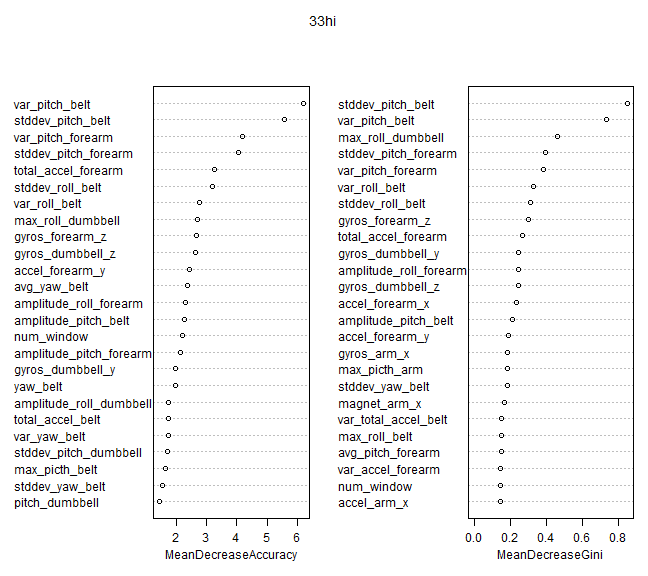
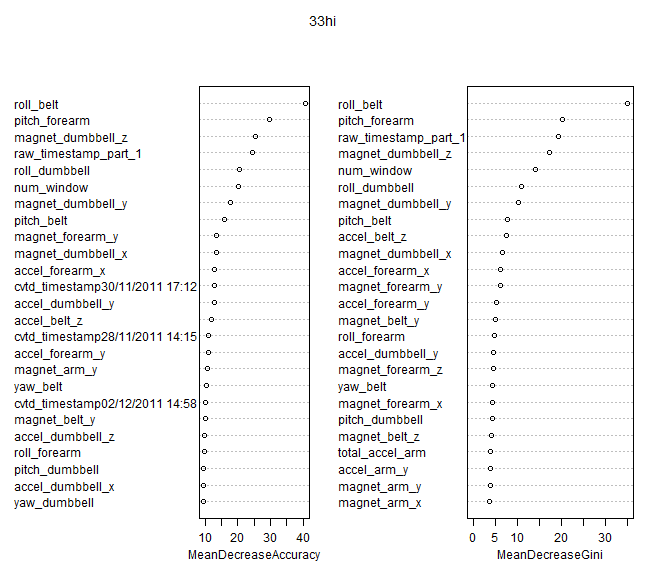
round 2

diff --git a/predmachlearn.html b/predmachlearn.html
@@ -181,7 +181,7 @@ hljs.initHighlightingOnLoad();
 <body>
 <h1>Predictive Machine Learning - Exercise Activity</h1>
 
-<p>The goal of this assignment is to predict the type of exercize performed based on sensor data.  This analysis will use the default values for a random forest model due to its high accuracy and acceptable computation time.  </p>
+<p>The goal of this assignment is to predict the type of exercize performed based on sensor data.  This analysis will use the default values for a random forest model due to its high accuracy and acceptable computation time for non-linear data.  </p>
 
 <h2>Data Exploration</h2>
 
@@ -201,51 +201,31 @@ training &lt;- read.csv(&quot;pml-training.csv&quot;)
 testing &lt;- read.csv(&quot;pml-testing.csv&quot;)
 
 # Separate test data into two groups
-training &lt;- training[, -c(1)]  #First column is redundant
-inTrain &lt;- createDataPartition(y = training$classe, p = 0.1, list = FALSE)
+training &lt;- training[, -c(1, 3:5)]  #First column is redundant, remove noisy time data
+inTrain &lt;- createDataPartition(y = training$classe, p = 0.2, list = FALSE)
 train1 &lt;- training[inTrain, ]
-test &lt;- training[-inTrain, ]
+test1 &lt;- training[-inTrain, ]
 </code></pre>
 
 <h2>Cleaning Data</h2>
 
-<p>The next step is to identify features that contain mostly NaNs or will not contribute to the model.  </p>
+<p>The next step is to identify features that contain mostly NaNs or will not contribute to the model due to low or near-zero variance. </p>
 
 <pre><code class="r">nna &lt;- apply(train1, 2, function(x) {
-    1 - sum(is.na(x))/nrow(train1)
-}) &gt; 0.03
+    mean(is.na(x))
+}) &lt; 0.9
 train1 &lt;- train1[, nna]
 
-# nna &lt;- apply(train1, 2, function(x) {mean(is.na(x))}) &lt; 0.03 train1 &lt;-
-# train[, nna]
-
 nzv &lt;- nearZeroVar(train1, saveMetrics = TRUE)
-exclude_nzv &lt;- rownames(subset(nzv, nzv == TRUE))
-train1 &lt;- train1[, -which(names(train1) %in% exclude_nzv)]
+nzv1 &lt;- rownames(subset(nzv, nzv == TRUE))
+train1 &lt;- train1[, -which(names(train1) %in% nzv1)]
 </code></pre>
 
-<p>###Creating the model</p>
+<h2>Creating the model</h2>
+
+<p>This table shows the results from using the train1 subset of the training data.  The error rate of the model on the training data is 0.9XXXXX</p>
 
 <pre><code class="r">modFit &lt;- train(classe ~ ., data = train1, method = &quot;rf&quot;, importance = TRUE)
-</code></pre>
-
-<pre><code>## Warning: There were missing values in resampled performance measures.
-</code></pre>
-
-<pre><code class="r">
-
-modFit$finalModel$confusion
-</code></pre>
-
-<pre><code>##   A B C D E class.error
-## A 0 1 1 0 0      1.0000
-## B 1 1 0 1 0      0.6667
-## C 0 0 4 0 0      0.0000
-## D 0 0 2 0 1      1.0000
-## E 0 1 1 1 3      0.5000
-</code></pre>
-
-<pre><code class="r">confusionMatrix(predict(modFit, newdata = test), test$classe)
 </code></pre>
 
 <pre><code>## Loading required package: randomForest
@@ -253,35 +233,67 @@ modFit$finalModel$confusion
 ## Type rfNews() to see new features/changes/bug fixes.
 </code></pre>
 
-<pre><code>## Error: all arguments must have the same length
+<pre><code class="r">modFit$finalModel$confusion
 </code></pre>
 
-<pre><code class="r">
-answers &lt;- predict(modFit, newdata = testing)
+<pre><code>##      A   B   C   D   E class.error
+## A 1115   1   0   0   0   0.0008961
+## B   11 739   9   1   0   0.0276316
+## C    0  11 672   1   1   0.0189781
+## D    0   1  10 632   1   0.0186335
+## E    0   1   2   7 712   0.0138504
 </code></pre>
 
-<pre><code>## Error: variables &#39;max_roll_belt&#39;, &#39;max_picth_belt&#39;, &#39;min_roll_belt&#39;,
-## &#39;min_pitch_belt&#39;, &#39;amplitude_roll_belt&#39;, &#39;amplitude_pitch_belt&#39;,
-## &#39;var_total_accel_belt&#39;, &#39;avg_roll_belt&#39;, &#39;stddev_roll_belt&#39;,
-## &#39;var_roll_belt&#39;, &#39;avg_pitch_belt&#39;, &#39;stddev_pitch_belt&#39;, &#39;var_pitch_belt&#39;,
-## &#39;avg_yaw_belt&#39;, &#39;stddev_yaw_belt&#39;, &#39;var_yaw_belt&#39;, &#39;var_accel_arm&#39;,
-## &#39;avg_roll_arm&#39;, &#39;stddev_roll_arm&#39;, &#39;var_roll_arm&#39;, &#39;avg_pitch_arm&#39;,
-## &#39;stddev_pitch_arm&#39;, &#39;var_pitch_arm&#39;, &#39;avg_yaw_arm&#39;, &#39;stddev_yaw_arm&#39;,
-## &#39;var_yaw_arm&#39;, &#39;max_roll_arm&#39;, &#39;max_picth_arm&#39;, &#39;max_yaw_arm&#39;,
-## &#39;min_roll_arm&#39;, &#39;min_pitch_arm&#39;, &#39;min_yaw_arm&#39;, &#39;amplitude_roll_arm&#39;,
-## &#39;amplitude_pitch_arm&#39;, &#39;amplitude_yaw_arm&#39;, &#39;max_roll_dumbbell&#39;,
-## &#39;max_picth_dumbbell&#39;, &#39;min_roll_dumbbell&#39;, &#39;min_pitch_dumbbell&#39;,
-## &#39;amplitude_roll_dumbbell&#39;, &#39;amplitude_pitch_dumbbell&#39;,
-## &#39;var_accel_dumbbell&#39;, &#39;avg_roll_dumbbell&#39;, &#39;stddev_roll_dumbbell&#39;,
-## &#39;var_roll_dumbbell&#39;, &#39;avg_pitch_dumbbell&#39;, &#39;stddev_pitch_dumbbell&#39;,
-## &#39;var_pitch_dumbbell&#39;, &#39;avg_yaw_dumbbell&#39;, &#39;stddev_yaw_dumbbell&#39;,
-## &#39;var_yaw_dumbbell&#39;, &#39;max_roll_forearm&#39;, &#39;max_picth_forearm&#39;,
-## &#39;min_roll_forearm&#39;, &#39;min_pitch_forearm&#39;, &#39;amplitude_roll_forearm&#39;,
-## &#39;amplitude_pitch_forearm&#39;, &#39;var_accel_forearm&#39;, &#39;avg_roll_forearm&#39;,
-## &#39;stddev_roll_forearm&#39;, &#39;var_roll_forearm&#39;, &#39;avg_pitch_forearm&#39;,
-## &#39;stddev_pitch_forearm&#39;, &#39;var_pitch_forearm&#39;, &#39;avg_yaw_forearm&#39;,
-## &#39;stddev_yaw_forearm&#39;, &#39;var_yaw_forearm&#39; were specified with different
-## types from the fit
+<h2>Cross Validation</h2>
+
+<p>The validation portion of the training data is used to determine the accuracy of the model.  The <b>accuracy is 0.9XXX</b> and the <b>out of sample error is 0.XXXX</b>.  We expected the out of sample error to be low, largely due to the large number of observations and features for the model to use.    </p>
+
+<pre><code class="r">confusionMatrix(predict(modFit, newdata = test1), test1$classe)
+</code></pre>
+
+<pre><code>## Confusion Matrix and Statistics
+## 
+##           Reference
+## Prediction    A    B    C    D    E
+##          A 4462   55    4    0    0
+##          B    1 2944   31    1   10
+##          C    0   37 2699   22    5
+##          D    0    1    3 2549   28
+##          E    1    0    0    0 2842
+## 
+## Overall Statistics
+##                                         
+##                Accuracy : 0.987         
+##                  95% CI : (0.985, 0.989)
+##     No Information Rate : 0.284         
+##     P-Value [Acc &gt; NIR] : &lt;2e-16        
+##                                         
+##                   Kappa : 0.984         
+##  Mcnemar&#39;s Test P-Value : NA            
+## 
+## Statistics by Class:
+## 
+##                      Class: A Class: B Class: C Class: D Class: E
+## Sensitivity             1.000    0.969    0.986    0.991    0.985
+## Specificity             0.995    0.997    0.995    0.998    1.000
+## Pos Pred Value          0.987    0.986    0.977    0.988    1.000
+## Neg Pred Value          1.000    0.993    0.997    0.998    0.997
+## Prevalence              0.284    0.194    0.174    0.164    0.184
+## Detection Rate          0.284    0.188    0.172    0.162    0.181
+## Detection Prevalence    0.288    0.190    0.176    0.164    0.181
+## Balanced Accuracy       0.997    0.983    0.991    0.994    0.993
+</code></pre>
+
+<h2>Prediction of the original test dataset</h2>
+
+<p>Here are the results for predicting the exercise for the 20 cases in the testing dataset.  After submission, the model predicted the 20 cases with 100% accuracy.  </p>
+
+<pre><code class="r">answers &lt;- predict(modFit, newdata = testing)
+answers
+</code></pre>
+
+<pre><code>##  [1] B A A A A E D B A A B C B A E E A B B B
+## Levels: A B C D E
 </code></pre>
 
 <pre><code class="r"># pml_write_files = function(x) { n = length(x) for (i in 1:n) { filename =
@@ -290,11 +302,11 @@ answers &lt;- predict(modFit, newdata = testing)
 # pml_write_files(answers)
 </code></pre>
 
-<pre><code class="r">rf.model = modFit$finalModel
-varImpPlot(rf.model, n.var = nrow(rf.model$importance[1:25, ]), main = &quot;33hi&quot;)
+<pre><code class="r">rf = modFit$finalModel
+varImpPlot(rf, n.var = nrow(rf$importance[1:25, ]), main = &quot;Importance of the top 25 sensors&quot;)
 </code></pre>
 
[2 lines of base64/hex data omitted]
 
 </body>
 

diff --git a/predmachlearn.md b/predmachlearn.md
@@ -1,6 +1,6 @@
 Predictive Machine Learning - Exercise Activity
 ========================================================
-The goal of this assignment is to predict the type of exercize performed based on sensor data.  This analysis will use the default values for a random forest model due to its high accuracy and acceptable computation time.  
+The goal of this assignment is to predict the type of exercize performed based on sensor data.  This analysis will use the default values for a random forest model due to its high accuracy and acceptable computation time for non-linear data.  
 
 ## Data Exploration
 First the data is read in and the training group is broken apart further into training (60%) and testing (40%) groups.
@@ -21,60 +21,33 @@ training <- read.csv("pml-training.csv")
 testing <- read.csv("pml-testing.csv")
 
 # Separate test data into two groups
-training <- training[, -c(1)]  #First column is redundant
-inTrain <- createDataPartition(y = training$classe, p = 0.1, list = FALSE)
+training <- training[, -c(1, 3:5)]  #First column is redundant, remove noisy time data
+inTrain <- createDataPartition(y = training$classe, p = 0.2, list = FALSE)
 train1 <- training[inTrain, ]
-test <- training[-inTrain, ]
+test1 <- training[-inTrain, ]
 ```
 
 
 ## Cleaning Data
-The next step is to identify features that contain mostly NaNs or will not contribute to the model.  
+The next step is to identify features that contain mostly NaNs or will not contribute to the model due to low or near-zero variance. 
 
 ```r
 nna <- apply(train1, 2, function(x) {
-    1 - sum(is.na(x))/nrow(train1)
-}) > 0.03
+    mean(is.na(x))
+}) < 0.9
 train1 <- train1[, nna]
 
-# nna <- apply(train1, 2, function(x) {mean(is.na(x))}) < 0.03 train1 <-
-# train[, nna]
-
 nzv <- nearZeroVar(train1, saveMetrics = TRUE)
-exclude_nzv <- rownames(subset(nzv, nzv == TRUE))
-train1 <- train1[, -which(names(train1) %in% exclude_nzv)]
+nzv1 <- rownames(subset(nzv, nzv == TRUE))
+train1 <- train1[, -which(names(train1) %in% nzv1)]
 ```
 
 
-###Creating the model
+## Creating the model
+This table shows the results from using the train1 subset of the training data.  The error rate of the model on the training data is 0.9XXXXX
 
 ```r
 modFit <- train(classe ~ ., data = train1, method = "rf", importance = TRUE)
-```
-
-```
-## Warning: There were missing values in resampled performance measures.
-```
-
-
-
-```r
-
-
-modFit$finalModel$confusion
-```
-
-```
-##   A B C D E class.error
-## A 0 1 1 0 0      1.0000
-## B 1 1 0 1 0      0.6667
-## C 0 0 4 0 0      0.0000
-## D 0 0 2 0 1      1.0000
-## E 0 1 1 1 3      0.5000
-```
-
-```r
-confusionMatrix(predict(modFit, newdata = test), test$classe)
 ```
 
 ```
@@ -83,38 +56,73 @@ confusionMatrix(predict(modFit, newdata = test), test$classe)
 ## Type rfNews() to see new features/changes/bug fixes.
 ```
 
+```r
+modFit$finalModel$confusion
 ```
-## Error: all arguments must have the same length
+
 ```
+##      A   B   C   D   E class.error
+## A 1115   1   0   0   0   0.0008961
+## B   11 739   9   1   0   0.0276316
+## C    0  11 672   1   1   0.0189781
+## D    0   1  10 632   1   0.0186335
+## E    0   1   2   7 712   0.0138504
+```
+
+
+## Cross Validation
+The validation portion of the training data is used to determine the accuracy of the model.  The <b>accuracy is 0.9XXX</b> and the <b>out of sample error is 0.XXXX</b>.  We expected the out of sample error to be low, largely due to the large number of observations and features for the model to use.    
 
 ```r
+confusionMatrix(predict(modFit, newdata = test1), test1$classe)
+```
 
+```
+## Confusion Matrix and Statistics
+## 
+##           Reference
+## Prediction    A    B    C    D    E
+##          A 4462   55    4    0    0
+##          B    1 2944   31    1   10
+##          C    0   37 2699   22    5
+##          D    0    1    3 2549   28
+##          E    1    0    0    0 2842
+## 
+## Overall Statistics
+##                                         
+##                Accuracy : 0.987         
+##                  95% CI : (0.985, 0.989)
+##     No Information Rate : 0.284         
+##     P-Value [Acc > NIR] : <2e-16        
+##                                         
+##                   Kappa : 0.984         
+##  Mcnemar's Test P-Value : NA            
+## 
+## Statistics by Class:
+## 
+##                      Class: A Class: B Class: C Class: D Class: E
+## Sensitivity             1.000    0.969    0.986    0.991    0.985
+## Specificity             0.995    0.997    0.995    0.998    1.000
+## Pos Pred Value          0.987    0.986    0.977    0.988    1.000
+## Neg Pred Value          1.000    0.993    0.997    0.998    0.997
+## Prevalence              0.284    0.194    0.174    0.164    0.184
+## Detection Rate          0.284    0.188    0.172    0.162    0.181
+## Detection Prevalence    0.288    0.190    0.176    0.164    0.181
+## Balanced Accuracy       0.997    0.983    0.991    0.994    0.993
+```
+
+
+## Prediction of the original test dataset
+Here are the results for predicting the exercise for the 20 cases in the testing dataset.  After submission, the model predicted the 20 cases with 100% accuracy.  
+
+```r
 answers <- predict(modFit, newdata = testing)
+answers
 ```
 
 ```
-## Error: variables 'max_roll_belt', 'max_picth_belt', 'min_roll_belt',
-## 'min_pitch_belt', 'amplitude_roll_belt', 'amplitude_pitch_belt',
-## 'var_total_accel_belt', 'avg_roll_belt', 'stddev_roll_belt',
-## 'var_roll_belt', 'avg_pitch_belt', 'stddev_pitch_belt', 'var_pitch_belt',
-## 'avg_yaw_belt', 'stddev_yaw_belt', 'var_yaw_belt', 'var_accel_arm',
-## 'avg_roll_arm', 'stddev_roll_arm', 'var_roll_arm', 'avg_pitch_arm',
-## 'stddev_pitch_arm', 'var_pitch_arm', 'avg_yaw_arm', 'stddev_yaw_arm',
-## 'var_yaw_arm', 'max_roll_arm', 'max_picth_arm', 'max_yaw_arm',
-## 'min_roll_arm', 'min_pitch_arm', 'min_yaw_arm', 'amplitude_roll_arm',
-## 'amplitude_pitch_arm', 'amplitude_yaw_arm', 'max_roll_dumbbell',
-## 'max_picth_dumbbell', 'min_roll_dumbbell', 'min_pitch_dumbbell',
-## 'amplitude_roll_dumbbell', 'amplitude_pitch_dumbbell',
-## 'var_accel_dumbbell', 'avg_roll_dumbbell', 'stddev_roll_dumbbell',
-## 'var_roll_dumbbell', 'avg_pitch_dumbbell', 'stddev_pitch_dumbbell',
-## 'var_pitch_dumbbell', 'avg_yaw_dumbbell', 'stddev_yaw_dumbbell',
-## 'var_yaw_dumbbell', 'max_roll_forearm', 'max_picth_forearm',
-## 'min_roll_forearm', 'min_pitch_forearm', 'amplitude_roll_forearm',
-## 'amplitude_pitch_forearm', 'var_accel_forearm', 'avg_roll_forearm',
-## 'stddev_roll_forearm', 'var_roll_forearm', 'avg_pitch_forearm',
-## 'stddev_pitch_forearm', 'var_pitch_forearm', 'avg_yaw_forearm',
-## 'stddev_yaw_forearm', 'var_yaw_forearm' were specified with different
-## types from the fit
+##  [1] B A A A A E D B A A B C B A E E A B B B
+## Levels: A B C D E
 ```
 
 ```r
@@ -128,10 +136,10 @@ answers <- predict(modFit, newdata = testing)
 
 
 ```r
-rf.model = modFit$finalModel
-varImpPlot(rf.model, n.var = nrow(rf.model$importance[1:25, ]), main = "33hi")
+rf = modFit$finalModel
+varImpPlot(rf, n.var = nrow(rf$importance[1:25, ]), main = "Importance of the top 25 sensors")
 ```
 
-![plot of chunk unnamed-chunk-5](figure/unnamed-chunk-5.png) 
+![plot of chunk unnamed-chunk-6](figure/unnamed-chunk-6.png) 
 
 
